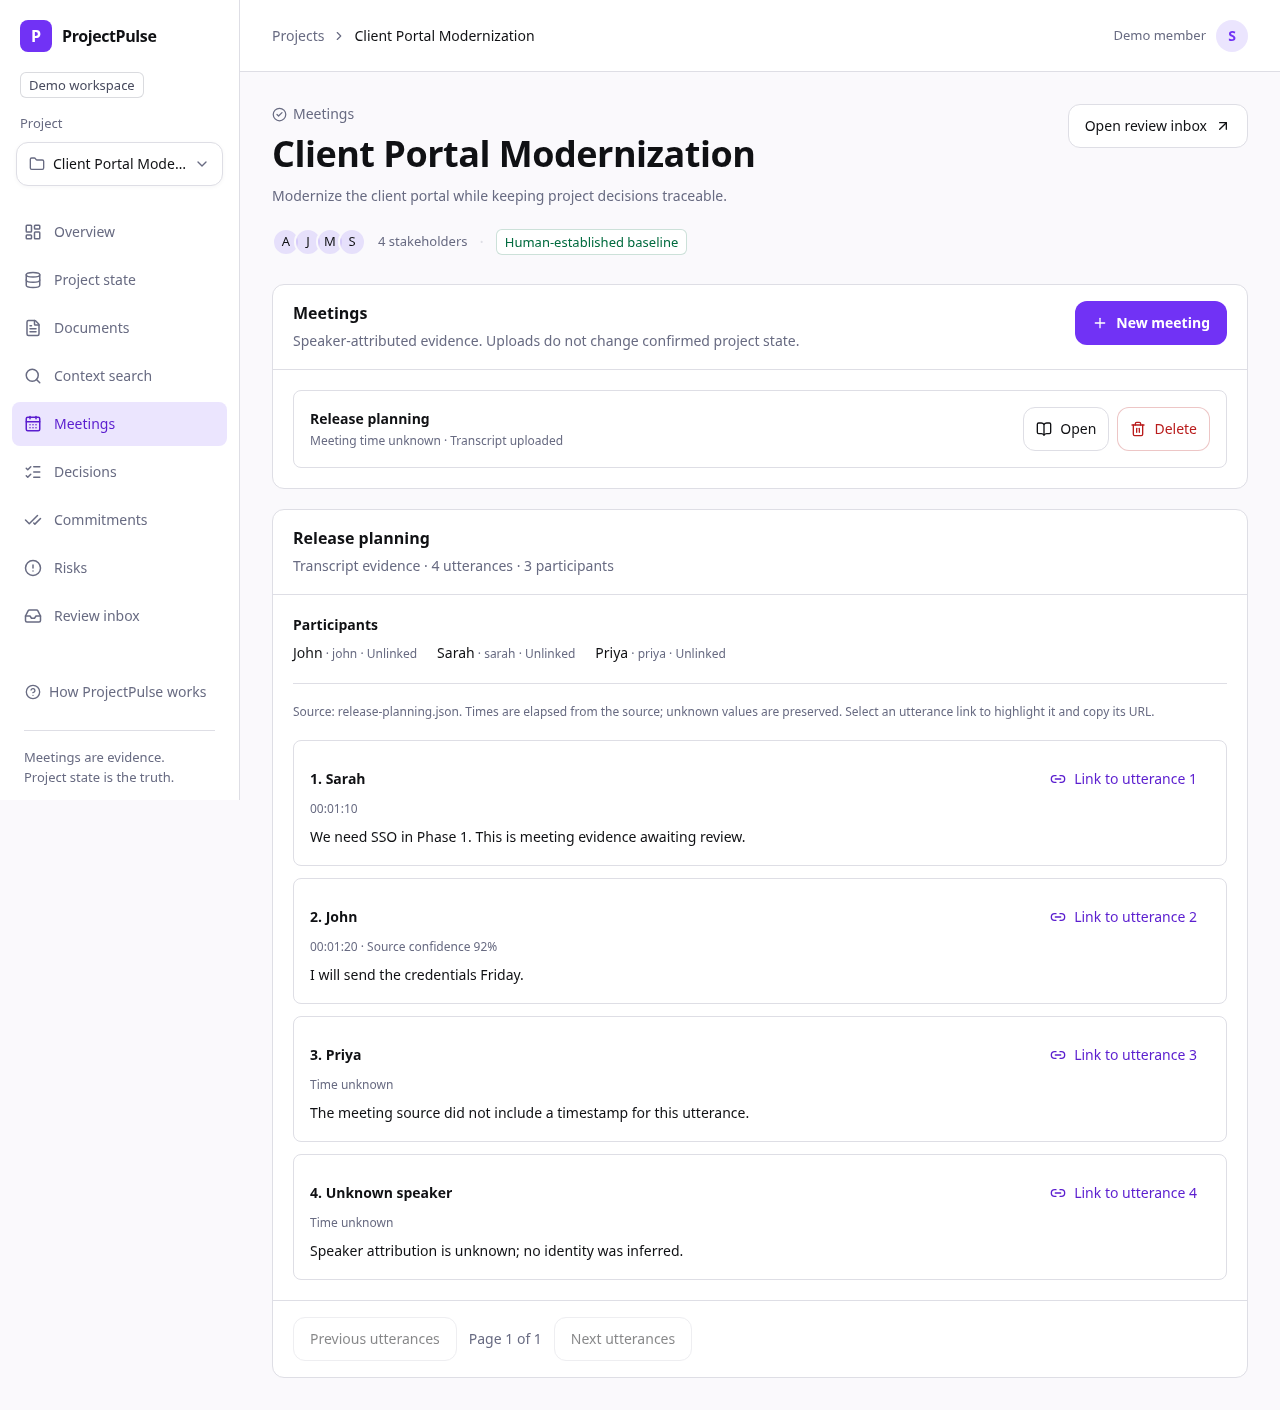
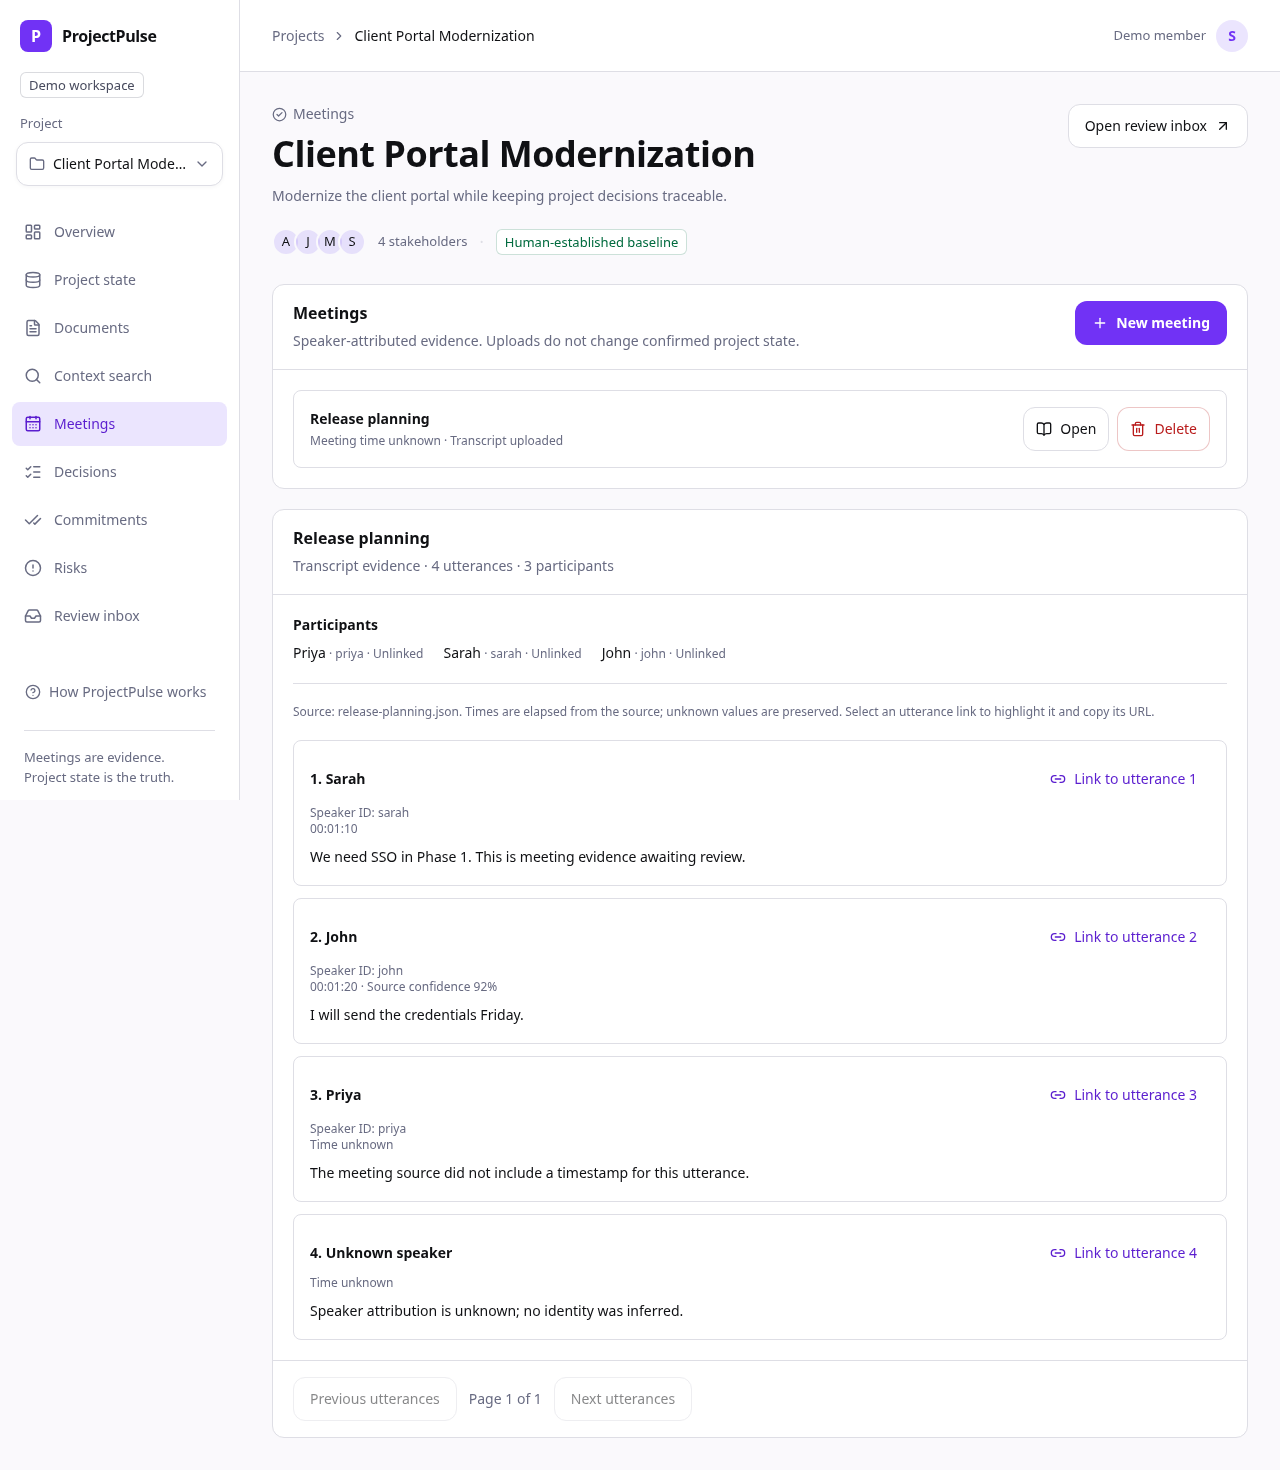
feat(phase-3): expose source speaker IDs and finalize phase acceptance

diff --git a/apps/web/src/components/meetings/transcript-viewer.tsx b/apps/web/src/components/meetings/transcript-viewer.tsx
@@ -260,53 +260,66 @@ function TranscriptViewer({
             <ol start={page * PAGE_SIZE + 1} className="flex flex-col gap-3">
               {meeting.utterances
                 .slice(page * PAGE_SIZE, (page + 1) * PAGE_SIZE)
-                .map((u) => (
-                  <li
-                    key={u.id}
-                    id={`utterance-${u.id}`}
-                    tabIndex={-1}
-                    aria-current={u.id === target ? "location" : undefined}
-                    ref={(element) => {
-                      if (element && u.id === target) {
-                        element.scrollIntoView({ block: "center" });
-                        element.focus({ preventScroll: true });
-                      }
-                    }}
-                    className={cn(
-                      "rounded-lg border border-line p-4",
-                      u.id === target && "border-accent bg-accent-soft",
-                    )}
-                  >
-                    <div className="flex flex-wrap items-center justify-between gap-2">
-                      <h3 className="min-w-0 max-w-full text-sm font-semibold [overflow-wrap:anywhere]">
-                        {u.sequence + 1}. {u.speaker}
-                      </h3>
-                      <Button asChild variant="link" size="sm">
-                        <Link
-                          href={meetingHref(
-                            meeting.projectId,
-                            meeting.id,
-                            u.id,
-                          )}
-                          scroll={false}
-                        >
-                          <Link2 data-icon="inline-start" />
-                          Link to utterance {u.sequence + 1}
-                        </Link>
-                      </Button>
-                    </div>
-                    <p className="text-xs text-muted">
-                      {elapsedTime(u.timestampMs)}
-                      {u.endMs !== null ? ` – ${elapsedTime(u.endMs)}` : ""}
-                      {u.confidence !== null
-                        ? ` · Source confidence ${Math.round(u.confidence * 100)}%`
-                        : ""}
-                    </p>
-                    <p className="mt-2 whitespace-pre-wrap break-words text-sm leading-6">
-                      {u.text}
-                    </p>
-                  </li>
-                ))}
+                .map((u) => {
+                  const speakerKey = meeting.participants.find(
+                    (p) => p.id === u.speakerId,
+                  )?.speakerKey;
+                  const sourceId = speakerKey?.startsWith("id:")
+                    ? speakerKey.slice(3)
+                    : null;
+                  return (
+                    <li
+                      key={u.id}
+                      id={`utterance-${u.id}`}
+                      tabIndex={-1}
+                      aria-current={u.id === target ? "location" : undefined}
+                      ref={(element) => {
+                        if (element && u.id === target) {
+                          element.scrollIntoView({ block: "center" });
+                          element.focus({ preventScroll: true });
+                        }
+                      }}
+                      className={cn(
+                        "rounded-lg border border-line p-4",
+                        u.id === target && "border-accent bg-accent-soft",
+                      )}
+                    >
+                      <div className="flex flex-wrap items-center justify-between gap-2">
+                        <h3 className="min-w-0 max-w-full text-sm font-semibold [overflow-wrap:anywhere]">
+                          {u.sequence + 1}. {u.speaker}
+                        </h3>
+                        <Button asChild variant="link" size="sm">
+                          <Link
+                            href={meetingHref(
+                              meeting.projectId,
+                              meeting.id,
+                              u.id,
+                            )}
+                            scroll={false}
+                          >
+                            <Link2 data-icon="inline-start" />
+                            Link to utterance {u.sequence + 1}
+                          </Link>
+                        </Button>
+                      </div>
+                      {sourceId && (
+                        <p className="mt-1 text-xs text-muted [overflow-wrap:anywhere]">
+                          Speaker ID: {sourceId}
+                        </p>
+                      )}
+                      <p className="text-xs text-muted">
+                        {elapsedTime(u.timestampMs)}
+                        {u.endMs !== null ? ` – ${elapsedTime(u.endMs)}` : ""}
+                        {u.confidence !== null
+                          ? ` · Source confidence ${Math.round(u.confidence * 100)}%`
+                          : ""}
+                      </p>
+                      <p className="mt-2 whitespace-pre-wrap break-words text-sm leading-6">
+                        {u.text}
+                      </p>
+                    </li>
+                  );
+                })}
             </ol>
           </>
         )}

diff --git a/apps/web/tests/e2e/meetings.spec.ts b/apps/web/tests/e2e/meetings.spec.ts
@@ -63,6 +63,12 @@ for (const file of formats)
       expect(detail.utterances.length).toBeGreaterThanOrEqual(2);
       if (file.name.endsWith("json")) {
         expect(detail.participants).toHaveLength(2);
+        await expect(
+          page.locator(`[id="utterance-${detail.utterances[0].id}"]`),
+        ).toContainText("Speaker ID: sarah-1");
+        await expect(
+          page.locator(`[id="utterance-${detail.utterances[1].id}"]`),
+        ).toContainText("Speaker ID: sarah-2");
         expect(detail.utterances[0].speakerId).not.toBe(
           detail.utterances[1].speakerId,
         );

diff --git a/docs/development/local-setup.md b/docs/development/local-setup.md
@@ -13,7 +13,7 @@ The shell examples use Bash; on Windows use Git Bash or WSL with Docker integrat
 
 ## First-time setup
 
-Clone the completed phase branch into your chosen folder:
+Clone the latest completed version from main into your chosen folder:
 
 ```sh
 git clone --branch main https://github.com/iamgauravjoshi/ProjectPulse.git
@@ -124,13 +124,14 @@ local work before switching branches.
 
 ProjectPulse is a web application. Developers run the frontend/backend locally;
 after a hosted deployment, users open the application URL in a browser and select
-a project. The completed Phase 1 version supports inspecting its baseline and follow-ups.
-The Phase 2 branch adds manual editing, document upload and source-aware context
-search. Later phases add transcript import and evidence-backed human review.
+a project. The workspace supports baseline inspection, manual editing, document
+memory/search and speaker-attributed meeting transcript upload. Later phases add
+AI interpretation and evidence-backed human review.
 Users will not need Node, Python or Docker to access a hosted version. A Windows
 executable is outside the current product plan.
 
-The current workspace is a local prototype with a fixed demo identity. Transcript ingestion and AI review actions are outside Phase 2.
+The current workspace is a local prototype with a fixed demo identity. AI processing
+and review actions remain future work.
 See the [Phase 1 report](../testing/phase-1-results.md) and
 [test commands](../../README.md#checks).
 
@@ -183,3 +184,39 @@ force an empty key, while provider contract tests use synthetic responses.
 If this cloud environment's Turbopack build fails with a socket EPERM, use the
 supported production builder `npm run build -- --webpack` from `apps/web`. The
 standard build remains unchanged for normal local and GitHub runners.
+
+
+## Updating to completed Phase 3
+
+Stop the frontend and backend with Ctrl+C in their terminals. From your ProjectPulse
+checkout, update main and keep your existing `.env` and database volume:
+
+```sh
+git switch main
+git pull --ff-only origin main
+cd apps/api
+uv sync --frozen
+uv run alembic upgrade head
+uv run uvicorn app.main:app --host 127.0.0.1 --port 8000
+```
+
+In a second terminal at the checkout root:
+
+```sh
+cd apps/web
+npm ci
+npm run dev
+```
+
+Open `http://localhost:3000`, select your project and **Meetings**. Choose **New
+meeting**, enter a title, then open it and upload a UTF-8 TXT, JSON or VTT file.
+The [sample transcript](../examples/meeting-transcript.json) contains distinct
+speaker IDs, a repeated name and unknown time/speaker examples. The upload form
+also shows format examples. **Add participant** before upload optionally links a
+speaker to a project member. After upload, use **Link to utterance** to bookmark
+specific evidence; reload preserves the source and attribution.
+
+The additive `0005_meetings` migration preserves canonical state and existing
+documents. No new secret, domain allowlist, Gemini call, meeting-bot setup or database
+reset is required for file ingestion. This remains a browser application. Read the
+[transcript guide](../features/transcript-ingestion.md) for source formats/limits.

diff --git a/docs/testing/phase-3-results.md b/docs/testing/phase-3-results.md
@@ -1,7 +1,8 @@
 # Phase 3 checkpoint results
 
-Started 4 October 2026 (Asia/Calcutta). Phase in progress; keep it off main until
-all required checkpoints and phase-wide acceptance pass.
+Started and accepted 4 October 2026 (Asia/Calcutta). Required file-ingestion steps
+are complete. Final CI must pass on the exact completion checkpoint before the
+authorized phase merge. Earlier sections preserve the per-step evidence.
 
 Branch: `phase/3-meeting-transcript-ingestion`. Base `e4836de` includes the shared
 frontend design system and [passing main CI](https://github.com/iamgauravjoshi/ProjectPulse/actions/runs/37180534874).
@@ -77,3 +78,36 @@ through persisted evidence. Ruff lint/format and strict mypy (51 source files) p
 All parser, scoped API, rollback, baseline and earlier phase regressions remain green.
 The adapter adds no network call or dependency and preserves the tested UI contract.
 Next: phase-wide browser/regression acceptance and final CI before merge.
+
+
+## Final review and phase-wide acceptance — complete
+
+All **51 browser tests** passed against the migrated local PostgreSQL database,
+covering the complete meeting → participant → upload → source citation → reload →
+delete flow alongside all earlier workspace, manual-state, document, search and
+design-system regressions. The final review added an explicit source speaker ID
+beside each JSON utterance so namesakes are distinguishable directly in the viewer.
+The strengthened repeated-name assertions and all **10 meeting browser tests**
+passed after that change; screenshots were refreshed and inspected again.
+
+The phase also passes **229 backend tests**, **43 frontend unit tests**, Ruff,
+strict mypy, frontend lint/types/format, Alembic schema drift and dependency audit
+(**zero vulnerabilities**). Local production acceptance uses webpack because of the
+previously documented cloud Turbopack socket restriction. The normal build command
+is unchanged and is verified by GitHub CI, including Linux full backend/frontend/
+browser checks and Windows frontend compatibility.
+
+The adapter checkpoint `3287e4750b96bde11dcddcadad7edb14b6673a2d` passed both
+[PR CI](https://github.com/iamgauravjoshi/ProjectPulse/actions/runs/37192950419) and
+[branch CI](https://github.com/iamgauravjoshi/ProjectPulse/actions/runs/37192948352).
+The final attribution/completion checkpoint must repeat those required CI checks
+successfully before merging [PR #4](https://github.com/iamgauravjoshi/ProjectPulse/pull/4)
+into main. Each tested step was pushed before the next began; retain the phase
+branch after merge. Phase 4 has not started.
+
+Optional Step 3.5 live streaming is explicitly deferred, as permitted by the brief;
+all required file-ingestion functionality is complete. No provider key or live AI
+acceptance is needed for deterministic file ingestion. Synthetic browser meetings
+are deleted after checks. No existing canonical records, documents, credentials or
+database volumes were reset. Production login/deployment and conferencing adapters
+remain documented limitations, not claims of completed functionality.

diff --git a/docs/features/transcript-ingestion.md b/docs/features/transcript-ingestion.md
@@ -1,6 +1,8 @@
 # Meetings and speaker-attributed transcript ingestion
 
-Status: Phase 3 in progress on `phase/3-meeting-transcript-ingestion`.
+Status: Phase 3 file-ingestion acceptance is complete. The implementation is
+checkpointed on `phase/3-meeting-transcript-ingestion` and merged through PR #4
+after final CI, retaining the phase branch for history.
 
 Meetings are evidence, not confirmed baseline changes. A meeting belongs to one
 project, has a title and optional timezone-aware start time, and records its human
@@ -104,7 +106,8 @@ and draft; fix/change the source and retry. Success persists through reload. A
 meeting's source is immutable; create a new meeting for a different transcript.
 
 The viewer separates participants from speaker-attributed utterances. It shows source
-filename, sequence, elapsed time/end time, readable text and supplied confidence;
+filename, sequence, elapsed time/end time, readable text, supplied confidence and
+explicit JSON speaker IDs beside their utterances, distinguishing repeated names;
 unknown time/speaker is labeled. **Link to utterance** creates a bookmarkable URL
 with project, meeting and stable utterance IDs. Opening that link selects the proper
 100-row page, scrolls to and focuses/highlights the utterance. A missing citation
@@ -138,3 +141,16 @@ or exposed as selectable UI actions. Future live integration must preserve scope
 validation budgets, immutable utterance citations and atomic audit before enabling
 its source. Step 3.5 live streaming is optional and deferred; no meeting-bot setup
 blocks the fully implemented file workflow.
+
+
+## Known limitations and phase boundary
+
+There is one immutable transcript per meeting and a latest-200-meeting list; saved
+citations can open older meetings. Registered participants freeze after upload.
+Name-only source labels cannot distinguish namesakes; use explicit JSON speakerId.
+The VTT parser supports the documented deterministic subset, not every captioning
+extension. No audio/video transcription, live stream, Vexa/Teams bot, external
+calendar synchronization, production auth or deployment is implemented. Phase 4
+relevance/AI processing has not started. Provider-ready interfaces and source links
+do not imply an active conferencing integration. No user data is sent to an AI
+provider during upload or viewing.

diff --git a/docs/architecture/proposed-architecture.md b/docs/architecture/proposed-architecture.md
@@ -90,15 +90,19 @@ Future confirmation must, in one database transaction:
 Reject/ignore leaves canonical state unchanged. A unique applied-candidate/action
 key makes repeated requests idempotent. No automatic external task writes occur.
 
-## Transcript and processing contracts (future phases)
+## Transcript ingestion and future processing
 
-`TranscriptSource.load(input)` returns validated utterances with speaker name,
-optional speaker ID, timestamp, sequence, text, and optional confidence. The file
-adapter supports structured text/JSON first; VTT follows only if practical. Vexa
-and Teams implement the same interface later. Unknown speakers remain explicit;
-speaker attribution does not automatically establish commitment ownership.
+Phase 3 implements `TranscriptAdapter[Source].parse(source) -> ParsedTranscript`
+in `app/services/transcript_adapters.py`. The file adapter accepts structured TXT,
+JSON and the documented VTT subset. It normalizes bounded utterances with speaker
+labels/IDs, elapsed milliseconds, source sequence, text and optional confidence.
+The scoped upload service retains immutable source bytes/hash and stable utterance
+citations without writing canonical state. Unknown speakers/times remain explicit;
+attribution does not establish commitment ownership. Future Vexa and Teams adapters
+can implement the protocol with their own source types; neither is active now.
+See [transcript ingestion](../features/transcript-ingestion.md).
 
-Processing uses bounded batches:
+Future processing phases will use bounded batches:
 
 1. Persist immutable project-scoped evidence and a processing-run identifier.
 2. Apply deterministic relevance rules, then classify ambiguous windows with context.

diff --git a/README.md b/README.md
@@ -3,10 +3,13 @@
 Project intelligence and decision reconciliation. Meetings are evidence; the
 project state is the truth.
 
-Phases 0, 1 and 2 are complete. Phase 2 adds audited manual editing, a document
+Phases 0–3 are complete. Phase 2 adds audited manual editing, a document
 library, Gemini indexing and bounded context search in a purple theme. See the
 [project memory feature](docs/features/project-memory.md) and
 [Phase 2 results](docs/testing/phase-2-results.md).
+Phase 3 adds meetings, participants and deterministic TXT/JSON/VTT transcript
+ingestion with stable utterance citations. See [transcript ingestion](docs/features/transcript-ingestion.md)
+and [Phase 3 results](docs/testing/phase-3-results.md).
 
 The workspace reads the seeded PostgreSQL project
 through FastAPI and displays its trusted baseline, stakeholders, delivery
